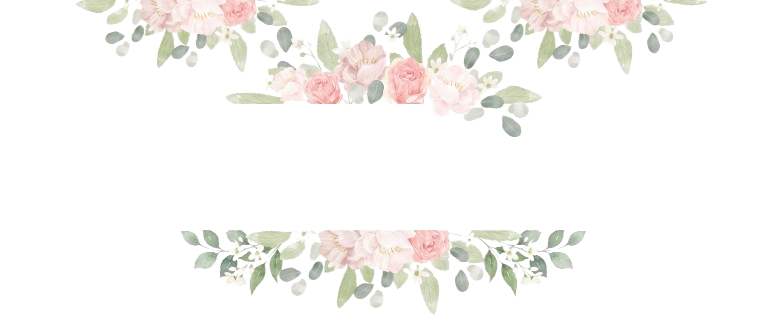
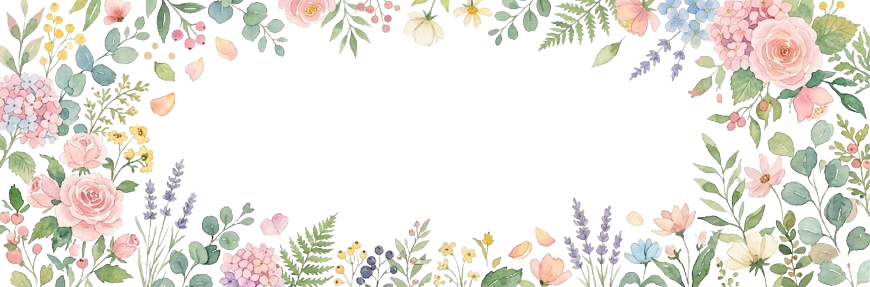
Encore des modifs

diff --git a/src/styles/global.css b/src/styles/global.css
@@ -1,21 +1,3 @@
-/* src/styles/global.css */
-
-:root {
-    --primary: #4a5d4e;
-    --accent: #d4a373;
-    --bg: #fefae0;
-    --text: #283618;
-}
-
-body {
-    font-family: 'Georgia', serif;
-    background-color: var(--bg);
-    color: var(--text);
-    margin: 0;
-    line-height: 1.6;
-}
-
-
 /* --- LE HEADER ET LA BANNIÈRE --- */
 
 header {
@@ -23,13 +5,11 @@ header {
     min-height: 150px;
     background-image: url('/images/fond_banniere.png');
     background-repeat: no-repeat;
-    background-size: contain;
+    background-size: cover;
     background-position: center;
     background-color: white;
     box-shadow: 0 2px 10px rgba(0, 0, 0, 0.1);
     padding: 1.5rem 2rem;
-    /* Ajoute le fond crème de ton site au header */
-    background-color: white;
     /* LA LIGNE MAGIQUE : Multiplie l'image avec la couleur de fond */
     background-blend-mode: multiply;
 }
@@ -38,33 +18,48 @@ header {
     max-width: 1200px;
     margin: 0 auto;
     display: flex;
-    /* Oblige les éléments à se mettre en ligne */
+    flex-direction: column;
+    /* MODIFICATION : Empile le logo et le menu de haut en bas */
     align-items: center;
-    /* Les centre verticalement */
-    justify-content: space-between;
-    /* Pousse le logo à gauche et le bouton à droite */
+    position: relative;
+    /* NOUVEAU : Sert de repère pour "accrocher" les boutons à droite */
+}
+
+
+/* NOUVEAU : Ajoute cet espace sous le logo pour qu'il ne touche pas le menu */
+
+.logo {
+    margin-bottom: 15px;
 }
 
 
 /* On force la taille du logo pour qu'il ne prenne pas tout l'écran */
 
 .logo img {
-    height: 100px;
+    height: 200px;
     width: auto;
     display: block;
 }
 
 nav {
-    /*background: white;*/
     display: flex;
-    justify-content: left;
-    gap: 120px;
+    justify-content: center;
+    gap: 60px;
     background: transparent;
     box-shadow: none;
     padding: 0;
-    /* C'est cette ligne qui fait descendre le menu ! */
-    margin-top: 50px;
-    margin-right: 90px;
+    /* MODIFICATION : J'ai supprimé le margin-top: 70px qui n'est plus utile avec le nouveau centrage */
+    /* LE CONTAINER */
+    padding: 0.6rem 1.2rem;
+    /* Espace entre le texte et les bords du cadre */
+    background: #F3FCBB;
+    /* Fond blanc semi-transparent pour voir les fleurs derrière */
+    border: 1px solid black;
+    /* Bordure fine */
+    border-radius: 30px;
+    /* Bords très arrondis pour un effet "pilule" */
+    transition: all 0.3s ease;
+    /* Animation fluide au survol */
 }
 
 nav a {
@@ -73,62 +68,48 @@ nav a {
     font-weight: bold;
     text-transform: uppercase;
     letter-spacing: 1px;
-    font-size: 1.3rem;
+    font-size: 0.8rem;
 }
 
 nav a:hover {
-    color: var(--accent);
-}
-
-main {
-    max-width: 1000px;
-    margin: 0 auto;
-    padding: 3rem 1rem;
-}
-
-h1 {
-    text-align: center;
-    color: var(--primary);
-    font-style: italic;
+    color: green;
 }
 
 
-/* Styles de la boutique */
+/* Connexion utilisateur */
 
-.grille-produits {
-    display: grid;
-    grid-template-columns: repeat(auto-fit, minmax(280px, 1fr));
-    gap: 2rem;
-    margin-top: 3rem;
+.user-space {
+    display: flex;
+    gap: 15px;
+    align-items: center;
+    position: absolute;
+    /* MODIFICATION : Sort les boutons du centre pour les placer librement */
+    right: 0;
+    /* Les colle sur la droite du conteneur de 1200px */
+    top: 10px;
+    /* Les place en haut (tu peux augmenter un peu ce chiffre si besoin) */
 }
 
-.carte {
-    background: white;
-    padding: 1rem;
-    border-radius: 8px;
-    transition: transform 0.3s ease;
-    text-align: center;
-    border: 1px solid #e9edc9;
-}
 
-.carte:hover {
-    transform: translateY(-5px);
-    box-shadow: 0 10px 20px rgba(0, 0, 0, 0.1);
-}
+/* On peaufine le style des boutons pour qu'ils soient bien distincts */
 
-.carte img {
-    width: 100%;
-    height: 250px;
-    object-fit: cover;
-    border-radius: 4px;
-}
-
-.bouton-etsy {
-    display: inline-block;
-    background: var(--accent);
-    color: white;
-    padding: 0.8rem 1.5rem;
+.user-space .btn-login {
     text-decoration: none;
+    color: var(--primary);
+    border: 1.5px solid var(--primary);
+    padding: 0.5rem 1rem;
     border-radius: 20px;
-    margin-top: 1rem;
+    font-size: 0.8rem;
+    font-weight: bold;
+    background: white;
+    transition: all 0.3s ease;
+    white-space: nowrap;
 }
+
+.user-space .btn-login:hover {
+    background: var(--primary);
+    color: white;
+}
+
+
+/* ... LA SUITE DE TON CODE ICI (main, h1, .grille-produits...) ... */